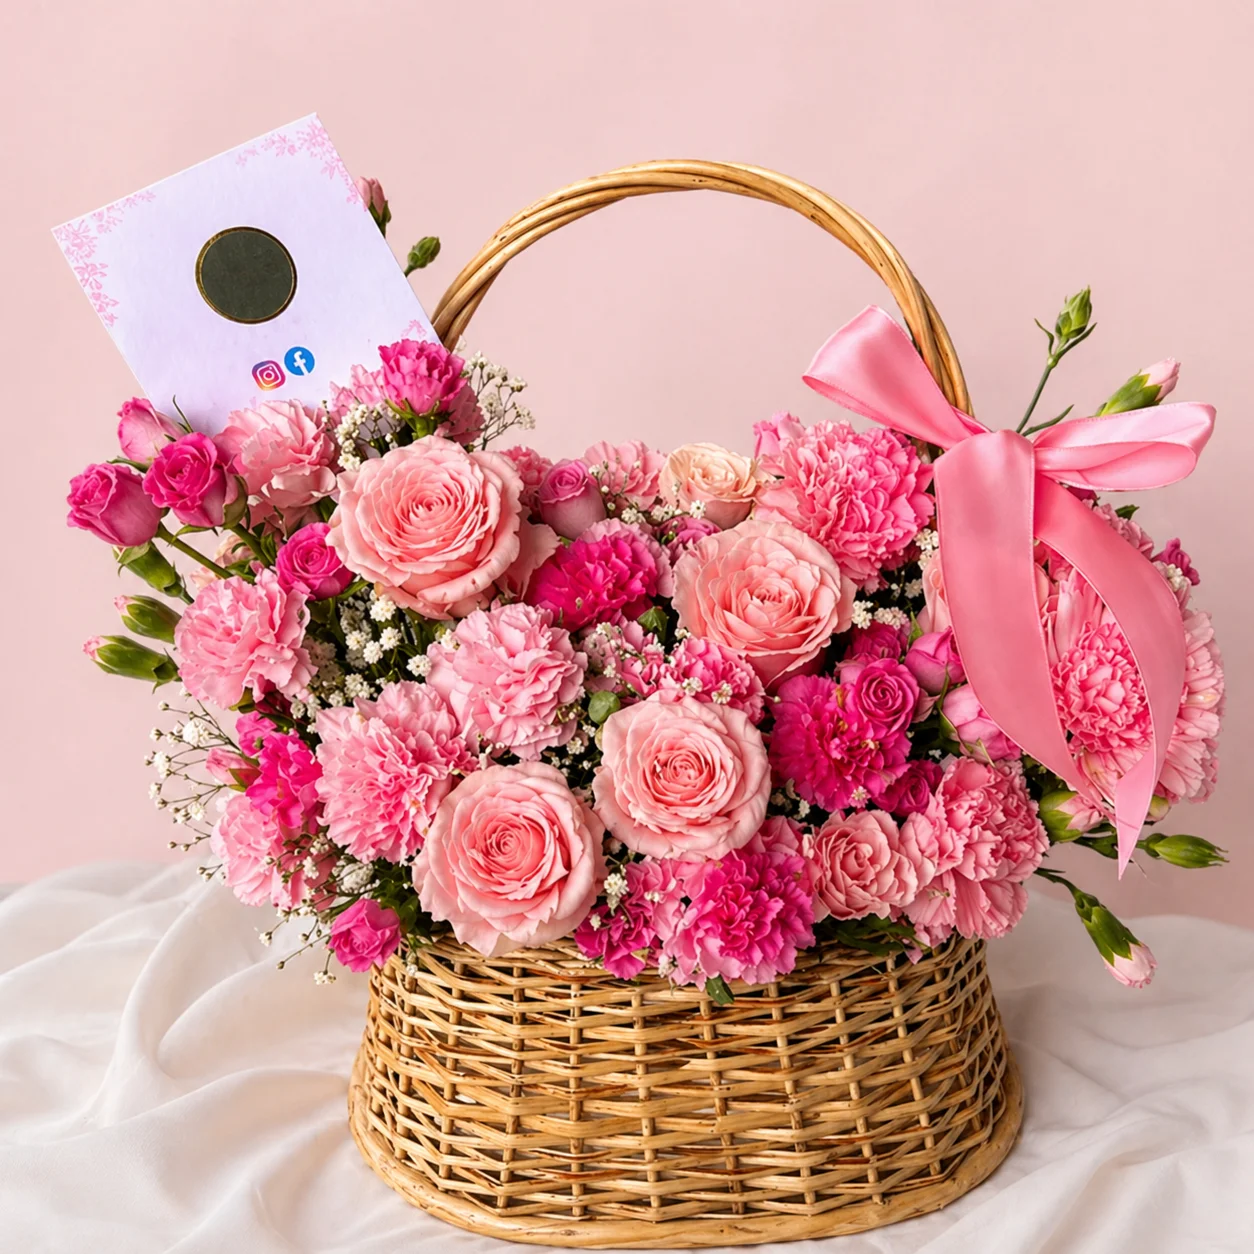
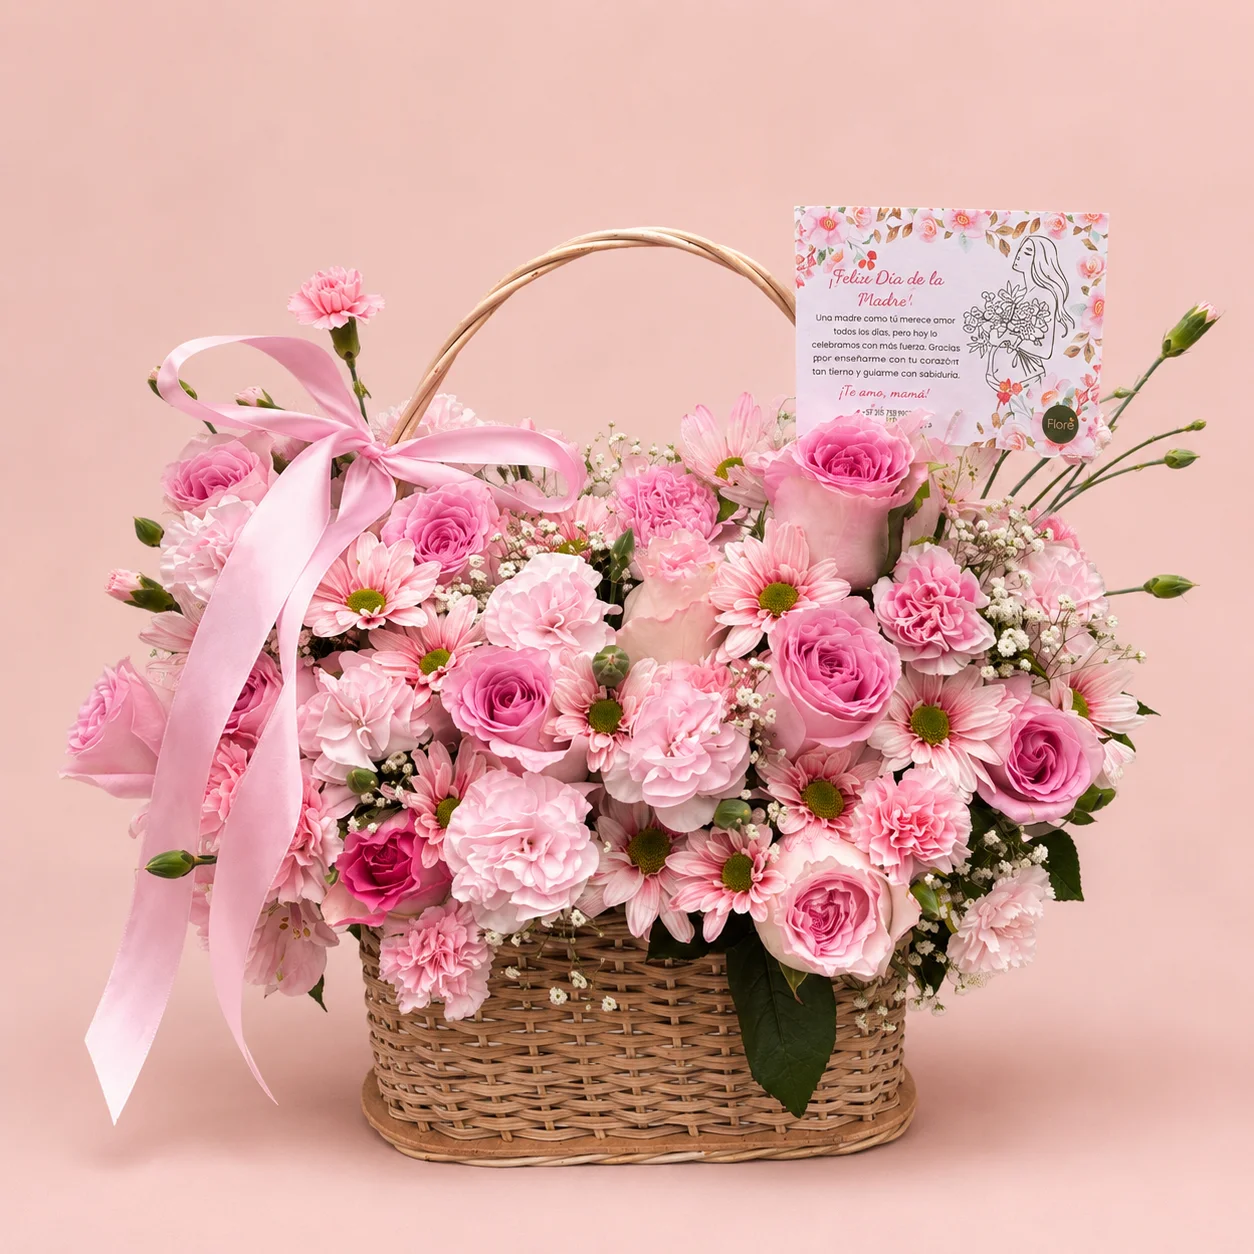
.

diff --git a/catalogo.html b/catalogo.html
@@ -147,8 +147,7 @@ const products = [
                 categories: ["bouquets", "precio-bajo"]
             },
             */
-            /* OCULTO - Referencia 2 (flor amarilla)
-            {
+                        {
                 id: 2,
                 name: "Rosa Eterna Mini",
                 price: 19406,
@@ -156,7 +155,6 @@ const products = [
                 description: "Mini bouquet con 1 rosa eterna amarilla dorada envuelta en papel blanco con lazo amarillo y texto personalizado. El detalle más económico y duradero. Perfecto para expresar cariño con un regalo que nunca se marchita.",
                 categories: ["rosas-eternas", "precio-bajo"]
             },
-            */
             {
                 id: 3,
                 name: "Te Quiero Solar",
@@ -227,16 +225,14 @@ const products = [
                 description: "Bouquet compacto y colorido con 1 girasol central, rosas rosadas, flores surtidas en tonos vibrantes. Envuelto en papel coreano rosa con lazo. Detalle económico pero lleno de vida y alegría, perfecto para sorpresas espontáneas.",
                 categories: ["rosas", "girasoles", "bouquets", "precio-bajo"]
             },
-            /* OCULTO - Referencia 11 (flor amarilla)
-            {
+                        {
                 id: 11,
                 name: "Rosas Eternas Doradas",
-                price: 71156,
+                price: 79062,
                 image: "assets/foto65.webp",
                 description: "Elegante caja redonda negra con 4 rosas eternas doradas, follaje verde y tarjeta personalizada con mensaje especial. Diseño sofisticado con lazo dorado. Un regalo duradero que simboliza amor eterno e inmortal.",
                 categories: ["rosas-eternas", "cajas", "precio-bajo"]
             },
-            */
             {
                 id: 12,
                 name: "Giras en Mi Mente",
@@ -333,8 +329,7 @@ const products = [
                 description: "Ramo fresco con 3 gerberas moradas, astromelias y margaritas blancas acompañadas de solidago verde. Envuelto en papel decorativo con tarjeta de la marca. Detalle económico y bonito perfecto para expresar gratitud y cariño sincero.",
                 categories: ["gerberas", "bouquets", "precio-bajo"]
             },
-            /* OCULTO - Referencia 24 (flor amarilla)
-            {
+                        {
                 id: 24,
                 name: "Rosas Eternas Bouquet",
                 price: 87975,
@@ -342,7 +337,6 @@ const products = [
                 description: "Bouquet de 8 rosas eternas amarillas doradas con moñito blanco decorado en papel fotográfico con corazones. Diseño delicado y duradero que simboliza amor imperecedero. Regalo sofisticado que no se marchita y perdura en el tiempo.",
                 categories: ["rosas-eternas", "precio-bajo"]
             },
-            */
             {
                 id: 25,
                 name: "Cuatro Soles con Margarita",
@@ -462,7 +456,7 @@ const products = [
             {
                 id: 39,
                 name: "Mi Niña Bella",
-                price: 126788,
+                price: 146788,
                 image: "assets/foto97.webp",
                 description: "Bouquet clásico de rosas rojas intensas envueltas en papel crema/beige con lazo rojo de cinta satinada. Presentación limpia, elegante y atemporal. El ramo perfecto para decir 'te quiero' con estilo y sencillez.",
                 categories: ["rosas", "bouquets", "coreano", "precio-bajo"]
@@ -470,7 +464,7 @@ const products = [
             {
                 id: 40,
                 name: "Rosas y Ferrero Dorado",
-                price: 126788,
+                price: 146788,
                 image: "assets/foto101.webp",
                 description: "Bouquet de rosas rojas con 5 Ferrero Rocher, gypsophila y abundante follaje verde, envuelto en papel negro con interior dorado y lazo rojo. La combinación perfecta de flores y chocolate para un regalo irresistible y delicioso.",
                 categories: ["rosas", "bouquets", "chocolates", "precio-bajo"]
@@ -478,7 +472,7 @@ const products = [
             {
                 id: 41,
                 name: "Vestido Campestre",
-                price: 135843,
+                price: 145843,
                 image: "assets/foto18.webp",
                 description: "Ramo encantador con 3 girasoles, margaritas, claveles rosados, rosas y follaje verde. Envuelto en papel kraft natural con lazo rojo. Combinación campestre y alegre que transmite frescura y buenos deseos.",
                 categories: ["rosas", "girasoles", "bouquets", "precio-bajo"]
@@ -1713,7 +1707,7 @@ const products = [
             {
                 id: 195,
                 name: "Primavera de Mamá",
-                price: 200000,
+                price: 180000,
                 image: "assets/madres/ramo1.webp",
                 description: "Hermosa canasta tipo garden con rosas rosadas, clavellinas fucsia, nubes delicadas y abundante follaje verde. Una explosión de color y frescura ideal para celebrar a mamá en su día. Presentación elegante con lazo rosa satinado.",
                 categories: ["dia-madres", "rosas", "canastas", "precio-medio"]
@@ -1722,7 +1716,7 @@ const products = [
             {
                 id: 196,
                 name: "Dulzura Silvestre",
-                price: 122500,
+                price: 110250,
                 image: "assets/madres/ramo2.webp",
                 description: "Base encartonada especial para mamá con rosas, claveles y lirios blancos, girasol mini . Presentación única y sofisticada con detalles florales variados. Un arreglo fresco y delicado para sorprender a mamá con la belleza de la primavera.",
                 categories: ["dia-madres", "rosas", "cajas", "precio-bajo"]
@@ -1731,7 +1725,7 @@ const products = [
             {
                 id: 197,
                 name: "Amor Infinito de Mamá",
-                price: 156250,
+                price: 140625,
                 image: "assets/madres/ramo3.webp",
                 description: "Impresionante jarrón con 20 rosas rojas frescas y lazo blanco satinado. Un clásico atemporal que expresa amor profundo e infinito. El regalo perfecto para demostrarle a mamá cuánto la quieres en su día especial.",
                 categories: ["dia-madres", "rosas", "precio-medio"]
@@ -1739,7 +1733,7 @@ const products = [
             {
                 id: 198,
                 name: "Esencia de Mamá",
-                price: 212500,
+                price: 191250,
                 image: "assets/madres/ramo4.webp",
                 description: "Elegante planta de orquídea Phalaenopsis fucsia envuelta en papel rosa y dorado con lazo satinado. Una planta duradera y sofisticada que simboliza amor y admiración. El regalo perfecto para una madre que aprecia la elegancia.",
                 categories: ["dia-madres", "premium", "precio-medio"]
@@ -1747,7 +1741,7 @@ const products = [
                         {
                 id: 199,
                 name: "Suspiro de Mamá",
-                price: 68750,
+                price: 61875,
                 image: "assets/madres/ramo5.webp",
                 description: "Delicado bouquet con gerbera, pompón, 2 rosas, astromelia y follaje verde. Envuelto en papel crema con lazo rosa. Fresco, colorido y lleno de vida, como el jardín de mamá. Un detalle tierno y accesible.",
                 categories: ["dia-madres", "gerberas", "rosas", "bouquets", "precio-bajo"]
@@ -1755,7 +1749,7 @@ const products = [
             {
                 id: 200,
                 name: "Lo Merece Mamá",
-                price: 181250,
+                price: 163125,
                 image: "assets/madres/ramo6.webp",
                 description: "Encantador bouquet de 4 tulipanes en tonos naranjas y amarillos envueltos en papel kraft y tissue con lazo verde agua. Elegante, delicado y lleno de significado. Porque mamá merece lo más bonito.",
                 categories: ["dia-madres", "tulipanes", "bouquets", "precio-medio"]
@@ -1763,7 +1757,7 @@ const products = [
             {
                 id: 201,
                 name: "Sol de Mamá",
-                price: 162500,
+                price: 146250,
                 image: "assets/madres/ramo7.webp",
                 description: "Espectacular bouquet de girasoles acompañados de clavellinas rosadas y fucsia, envuelto en papel rosa estampado con margaritas. Un regalo alegre y luminoso que iluminará el día de mamá como un rayo de sol.",
                 categories: ["dia-madres", "girasoles", "bouquets", "precio-medio"]
@@ -1771,7 +1765,7 @@ const products = [
             {
                 id: 202,
                 name: "Abrazo de Flores",
-                price: 193750,
+                price: 174375,
                 image: "assets/madres/ramo8.webp",
                 description: "Lujoso bouquet de 20 rosas rosadas con clavellinas fucsia y eucalipto, envuelto en papel rosa con lazo satinado. Incluye 1 caja de chocolates. Un abrazo floral completo para envolver a mamá de cariño y dulzura.",
                 categories: ["dia-madres", "rosas", "chocolates", "bouquets", "precio-medio"]
@@ -1779,7 +1773,7 @@ const products = [
             {
                 id: 203,
                 name: "Rayito de Amor",
-                price: 81250,
+                price: 73125,
                 image: "assets/madres/ramo9.webp",
                 description: "Bouquet de 3 girasoles grandes con follaje verde envuelto en cartulina negra con lazo amarillo. Incluye 1 caja de almendras. Un detalle cálido, luminoso y delicioso para alegrar el día de mamá.",
                 categories: ["dia-madres", "girasoles", "chocolates", "bouquets", "precio-bajo"]
@@ -1787,7 +1781,7 @@ const products = [
             {
                 id: 204,
                 name: "Suspiro de Rosas",
-                price: 160000,
+                price: 144000,
                 image: "assets/madres/ramo10.webp",
                 description: "Romántico bouquet de 10 rosas, entre rojas y rosadas, con eucalipto fresco envuelto en papel rosa con lazo satinado. La combinación perfecta de pasión y ternura para arrancarle un suspiro a mamá.",
                 categories: ["dia-madres", "rosas", "bouquets", "precio-medio"]
@@ -1795,7 +1789,7 @@ const products = [
             {
                 id: 205,
                 name: "El Reflejo del Amor Más Puro",
-                price: 275000,
+                price: 247500,
                 image: "assets/madres/ramo11.webp",
                 description: "Espectacular arreglo de rosas rojas en cartulina negra con 1 espejo central grabado 'Eres Hermosa'. Diseño único y artístico que combina la belleza de las rosas con un mensaje de amor. El regalo más original para mamá.",
                 categories: ["dia-madres", "rosas", "premium", "precio-alto"]
@@ -1803,7 +1797,7 @@ const products = [
             {
                 id: 206,
                 name: "Aura Materna",
-                price: 206250,
+                price: 185625,
                 image: "assets/madres/ramo12.webp",
                 description: "Delicado bouquet de rosas rosadas y lirios blancos con abundante follaje verde, envuelto en papel rosa con lazo blanco satinado. Una combinación clásica que transmite el aura de pureza y cariño maternal.",
                 categories: ["dia-madres", "rosas", "lirios", "bouquets", "precio-medio"]
@@ -1811,7 +1805,7 @@ const products = [
             {
                 id: 207,
                 name: "Moments with Mom",
-                price: 237500,
+                price: 213750,
                 image: "assets/madres/ramo13.webp",
                 description: "Elegante arreglo con rosas rojas, claveles rosados y abundante follaje verde en base cilíndrica blanca. Coronado con globo burbuja personalizado 'MOM' en letras doradas. El arreglo más especial para crear momentos inolvidables con mamá.",
                 categories: ["dia-madres", "rosas", "cajas", "precio-medio"]

diff --git a/js/landing.js b/js/landing.js
@@ -15,8 +15,7 @@ const products = [
                 categories: ["bouquets", "precio-bajo"]
             },
             */
-            /* OCULTO - Referencia 2 (flor amarilla)
-            {
+                        {
                 id: 2,
                 name: "Rosa Eterna Mini",
                 price: 19406,
@@ -24,7 +23,6 @@ const products = [
                 description: "Mini bouquet con 1 rosa eterna amarilla dorada envuelta en papel blanco con lazo amarillo y texto personalizado. El detalle más económico y duradero. Perfecto para expresar cariño con un regalo que nunca se marchita.",
                 categories: ["rosas-eternas", "precio-bajo"]
             },
-            */
             {
                 id: 3,
                 name: "Te Quiero Solar",
@@ -95,16 +93,14 @@ const products = [
                 description: "Bouquet compacto y colorido con 1 girasol central, rosas rosadas, flores surtidas en tonos vibrantes. Envuelto en papel coreano rosa con lazo. Detalle económico pero lleno de vida y alegría, perfecto para sorpresas espontáneas.",
                 categories: ["rosas", "girasoles", "bouquets", "precio-bajo"]
             },
-            /* OCULTO - Referencia 11 (flor amarilla)
-            {
+                        {
                 id: 11,
                 name: "Rosas Eternas Doradas",
-                price: 71156,
+                price: 79062,
                 image: "../assets/foto65.webp",
                 description: "Elegante caja redonda negra con 4 rosas eternas doradas, follaje verde y tarjeta personalizada con mensaje especial. Diseño sofisticado con lazo dorado. Un regalo duradero que simboliza amor eterno e inmortal.",
                 categories: ["rosas-eternas", "cajas", "precio-bajo"]
             },
-            */
             {
                 id: 12,
                 name: "Giras en Mi Mente",
@@ -201,8 +197,7 @@ const products = [
                 description: "Ramo fresco con 3 gerberas moradas, astromelias y margaritas blancas acompañadas de solidago verde. Envuelto en papel decorativo con tarjeta de la marca. Detalle económico y bonito perfecto para expresar gratitud y cariño sincero.",
                 categories: ["gerberas", "bouquets", "precio-bajo"]
             },
-            /* OCULTO - Referencia 24 (flor amarilla)
-            {
+                        {
                 id: 24,
                 name: "Rosas Eternas Bouquet",
                 price: 87975,
@@ -210,7 +205,6 @@ const products = [
                 description: "Bouquet de 8 rosas eternas amarillas doradas con moñito blanco decorado en papel fotográfico con corazones. Diseño delicado y duradero que simboliza amor imperecedero. Regalo sofisticado que no se marchita y perdura en el tiempo.",
                 categories: ["rosas-eternas", "precio-bajo"]
             },
-            */
             {
                 id: 25,
                 name: "Cuatro Soles con Margarita",
@@ -330,7 +324,7 @@ const products = [
             {
                 id: 39,
                 name: "Mi Niña Bella",
-                price: 126788,
+                price: 146788,
                 image: "../assets/foto97.webp",
                 description: "Bouquet clásico de rosas rojas intensas envueltas en papel crema/beige con lazo rojo de cinta satinada. Presentación limpia, elegante y atemporal. El ramo perfecto para decir 'te quiero' con estilo y sencillez.",
                 categories: ["rosas", "bouquets", "coreano", "precio-bajo"]
@@ -338,7 +332,7 @@ const products = [
             {
                 id: 40,
                 name: "Rosas y Ferrero Dorado",
-                price: 126788,
+                price: 146788,
                 image: "../assets/foto101.webp",
                 description: "Bouquet de rosas rojas con 5 Ferrero Rocher, gypsophila y abundante follaje verde, envuelto en papel negro con interior dorado y lazo rojo. La combinación perfecta de flores y chocolate para un regalo irresistible y delicioso.",
                 categories: ["rosas", "bouquets", "chocolates", "precio-bajo"]
@@ -346,7 +340,7 @@ const products = [
             {
                 id: 41,
                 name: "Vestido Campestre",
-                price: 135843,
+                price: 145843,
                 image: "../assets/foto18.webp",
                 description: "Ramo encantador con 3 girasoles, margaritas, claveles rosados, rosas y follaje verde. Envuelto en papel kraft natural con lazo rojo. Combinación campestre y alegre que transmite frescura y buenos deseos.",
                 categories: ["rosas", "girasoles", "bouquets", "precio-bajo"]
@@ -1581,7 +1575,7 @@ const products = [
             {
                 id: 195,
                 name: "Primavera de Mamá",
-                price: 200000,
+                price: 180000,
                 image: "../assets/madres/ramo1.webp",
                 description: "Hermosa canasta tipo garden con rosas rosadas, clavellinas fucsia, nubes delicadas y abundante follaje verde. Una explosión de color y frescura ideal para celebrar a mamá en su día. Presentación elegante con lazo rosa satinado.",
                 categories: ["dia-madres", "rosas", "canastas", "precio-medio"]
@@ -1590,7 +1584,7 @@ const products = [
             {
                 id: 196,
                 name: "Dulzura Silvestre",
-                price: 122500,
+                price: 110250,
                 image: "../assets/madres/ramo2.webp",
                 description: "Base encartonada especial para mamá con rosas, claveles y lirios blancos, girasol mini . Presentación única y sofisticada con detalles florales variados. Un arreglo fresco y delicado para sorprender a mamá con la belleza de la primavera.",
                 categories: ["dia-madres", "rosas", "cajas", "precio-bajo"]
@@ -1599,7 +1593,7 @@ const products = [
             {
                 id: 197,
                 name: "Amor Infinito de Mamá",
-                price: 156250,
+                price: 140625,
                 image: "../assets/madres/ramo3.webp",
                 description: "Impresionante jarrón con 20 rosas rojas frescas y lazo blanco satinado. Un clásico atemporal que expresa amor profundo e infinito. El regalo perfecto para demostrarle a mamá cuánto la quieres en su día especial.",
                 categories: ["dia-madres", "rosas", "precio-medio"]
@@ -1607,7 +1601,7 @@ const products = [
             {
                 id: 198,
                 name: "Esencia de Mamá",
-                price: 212500,
+                price: 191250,
                 image: "../assets/madres/ramo4.webp",
                 description: "Elegante planta de orquídea Phalaenopsis fucsia envuelta en papel rosa y dorado con lazo satinado. Una planta duradera y sofisticada que simboliza amor y admiración. El regalo perfecto para una madre que aprecia la elegancia.",
                 categories: ["dia-madres", "premium", "precio-medio"]
@@ -1615,7 +1609,7 @@ const products = [
                         {
                 id: 199,
                 name: "Suspiro de Mamá",
-                price: 68750,
+                price: 61875,
                 image: "../assets/madres/ramo5.webp",
                 description: "Delicado bouquet con gerbera, pompón, 2 rosas, astromelia y follaje verde. Envuelto en papel crema con lazo rosa. Fresco, colorido y lleno de vida, como el jardín de mamá. Un detalle tierno y accesible.",
                 categories: ["dia-madres", "gerberas", "rosas", "bouquets", "precio-bajo"]
@@ -1623,7 +1617,7 @@ const products = [
             {
                 id: 200,
                 name: "Lo Merece Mamá",
-                price: 181250,
+                price: 163125,
                 image: "../assets/madres/ramo6.webp",
                 description: "Encantador bouquet de 4 tulipanes en tonos naranjas y amarillos envueltos en papel kraft y tissue con lazo verde agua. Elegante, delicado y lleno de significado. Porque mamá merece lo más bonito.",
                 categories: ["dia-madres", "tulipanes", "bouquets", "precio-medio"]
@@ -1631,7 +1625,7 @@ const products = [
             {
                 id: 201,
                 name: "Sol de Mamá",
-                price: 162500,
+                price: 146250,
                 image: "../assets/madres/ramo7.webp",
                 description: "Espectacular bouquet de girasoles acompañados de clavellinas rosadas y fucsia, envuelto en papel rosa estampado con margaritas. Un regalo alegre y luminoso que iluminará el día de mamá como un rayo de sol.",
                 categories: ["dia-madres", "girasoles", "bouquets", "precio-medio"]
@@ -1639,7 +1633,7 @@ const products = [
             {
                 id: 202,
                 name: "Abrazo de Flores",
-                price: 193750,
+                price: 174375,
                 image: "../assets/madres/ramo8.webp",
                 description: "Lujoso bouquet de 20 rosas rosadas con clavellinas fucsia y eucalipto, envuelto en papel rosa con lazo satinado. Incluye 1 caja de chocolates. Un abrazo floral completo para envolver a mamá de cariño y dulzura.",
                 categories: ["dia-madres", "rosas", "chocolates", "bouquets", "precio-medio"]
@@ -1647,7 +1641,7 @@ const products = [
             {
                 id: 203,
                 name: "Rayito de Amor",
-                price: 81250,
+                price: 73125,
                 image: "../assets/madres/ramo9.webp",
                 description: "Bouquet de 3 girasoles grandes con follaje verde envuelto en cartulina negra con lazo amarillo. Incluye 1 caja de almendras. Un detalle cálido, luminoso y delicioso para alegrar el día de mamá.",
                 categories: ["dia-madres", "girasoles", "chocolates", "bouquets", "precio-bajo"]
@@ -1655,7 +1649,7 @@ const products = [
             {
                 id: 204,
                 name: "Suspiro de Rosas",
-                price: 160000,
+                price: 144000,
                 image: "../assets/madres/ramo10.webp",
                 description: "Romántico bouquet de 10 rosas, entre rojas y rosadas, con eucalipto fresco envuelto en papel rosa con lazo satinado. La combinación perfecta de pasión y ternura para arrancarle un suspiro a mamá.",
                 categories: ["dia-madres", "rosas", "bouquets", "precio-medio"]
@@ -1663,7 +1657,7 @@ const products = [
             {
                 id: 205,
                 name: "El Reflejo del Amor Más Puro",
-                price: 275000,
+                price: 247500,
                 image: "../assets/madres/ramo11.webp",
                 description: "Espectacular arreglo de rosas rojas en cartulina negra con 1 espejo central grabado 'Eres Hermosa'. Diseño único y artístico que combina la belleza de las rosas con un mensaje de amor. El regalo más original para mamá.",
                 categories: ["dia-madres", "rosas", "premium", "precio-alto"]
@@ -1671,7 +1665,7 @@ const products = [
             {
                 id: 206,
                 name: "Aura Materna",
-                price: 206250,
+                price: 185625,
                 image: "../assets/madres/ramo12.webp",
                 description: "Delicado bouquet de rosas rosadas y lirios blancos con abundante follaje verde, envuelto en papel rosa con lazo blanco satinado. Una combinación clásica que transmite el aura de pureza y cariño maternal.",
                 categories: ["dia-madres", "rosas", "lirios", "bouquets", "precio-medio"]
@@ -1679,7 +1673,7 @@ const products = [
             {
                 id: 207,
                 name: "Moments with Mom",
-                price: 237500,
+                price: 213750,
                 image: "../assets/madres/ramo13.webp",
                 description: "Elegante arreglo con rosas rojas, claveles rosados y abundante follaje verde en base cilíndrica blanca. Coronado con globo burbuja personalizado 'MOM' en letras doradas. El arreglo más especial para crear momentos inolvidables con mamá.",
                 categories: ["dia-madres", "rosas", "cajas", "precio-medio"]